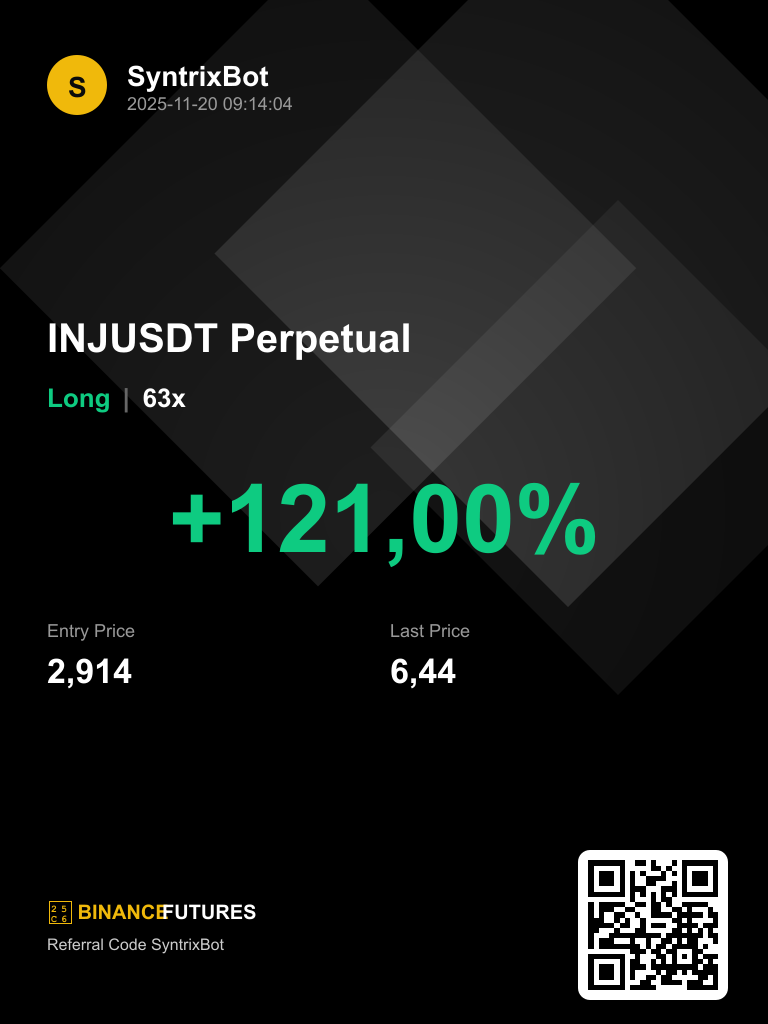
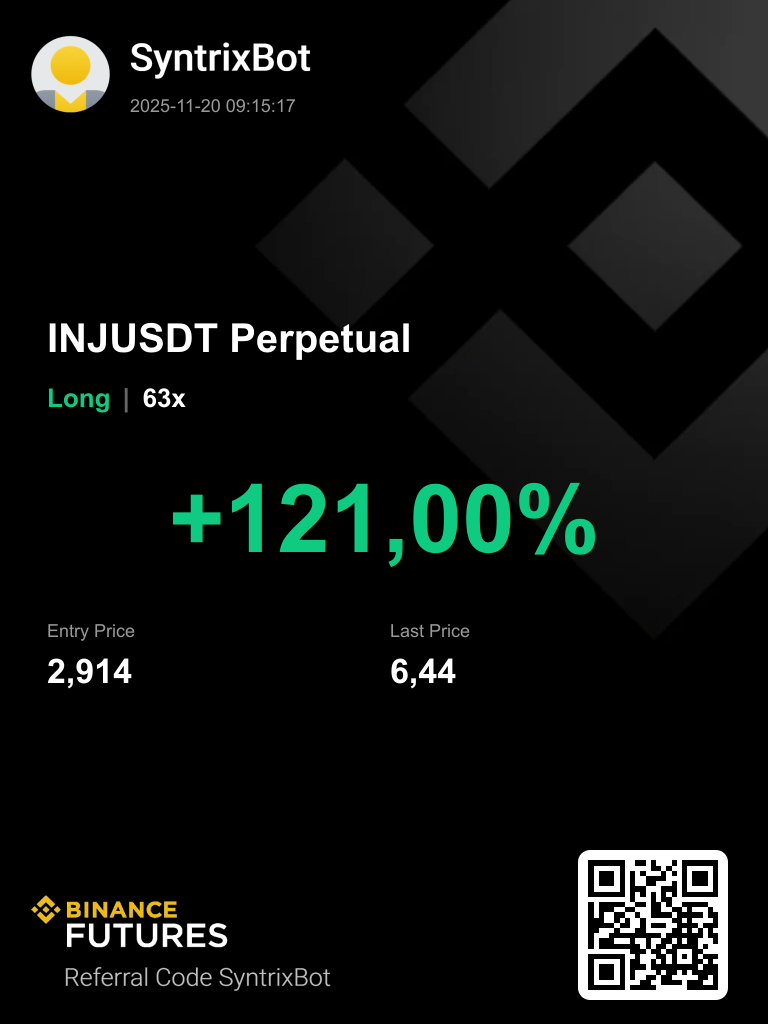
Revert to original card_logo3.png background, draw only dynamic data

diff --git a/telegram-bot/src/cardGenerator.ts b/telegram-bot/src/cardGenerator.ts
@@ -145,8 +145,8 @@ async function getNextOrderNumber(): Promise<number> {
  */
 async function drawBackground(ctx: CanvasRenderingContext2D, width: number, height: number) {
   try {
-    // Load the clean background image without any text
-    const backgroundPath = path.join(__dirname, '..', 'assets', 'card-background.png')
+    // Load the original background image
+    const backgroundPath = path.join(__dirname, '..', 'card_logo3.png')
     const background = await canvasLoadImage(backgroundPath)
     ctx.drawImage(background, 0, 0, width, height)
   } catch (error) {
@@ -177,36 +177,14 @@ async function drawBackground(ctx: CanvasRenderingContext2D, width: number, heig
  * Draw header with avatar and bot info
  */
 function drawHeader(ctx: CanvasRenderingContext2D, data: TradingCardData, layout: any) {
-  const avatarX = 47
-  const avatarY = 55
-  const avatarSize = 60
-  const avatarRadius = avatarSize / 2
-
-  // Draw circular avatar background
-  ctx.fillStyle = data.avatarBackground || '#F0B90B'
-  ctx.beginPath()
-  ctx.arc(avatarX + avatarRadius, avatarY + avatarRadius, avatarRadius, 0, Math.PI * 2)
-  ctx.fill()
-
-  // Draw avatar initial
-  ctx.fillStyle = data.avatarTextColor || '#0B0B0B'
-  ctx.font = 'bold 28px Arial'
-  ctx.textAlign = 'center'
-  ctx.textBaseline = 'middle'
-  ctx.fillText(data.botInitial, avatarX + avatarRadius, avatarY + avatarRadius + 2)
-
-  // Draw bot name
-  ctx.fillStyle = '#ffffff'
-  ctx.font = 'bold 28px Arial'
-  ctx.textAlign = 'left'
-  ctx.textBaseline = 'top'
-  ctx.fillText('SyntrixBot', avatarX + avatarSize + 20, avatarY + 5)
-
-  // Draw timestamp
+  // Avatar and bot name are on the background image
+  // Only draw timestamp
   ctx.fillStyle = '#999999'
   ctx.font = '18px Arial'
+  ctx.textAlign = 'left'
+  ctx.textBaseline = 'top'
   const timestamp = data.timestamp.toISOString().replace('T', ' ').substring(0, 19)
-  ctx.fillText(timestamp, avatarX + avatarSize + 20, avatarY + 38)
+  ctx.fillText(timestamp, 130, 95)
 }
 
 /**
@@ -309,22 +287,9 @@ async function drawFooter(
   const footerY = layout.footerY
   const leftMargin = layout.marginLeft
 
-  // Draw Binance Futures logo text
-  ctx.fillStyle = '#F0B90B'
-  ctx.font = 'bold 20px Arial'
-  ctx.textAlign = 'left'
-  ctx.textBaseline = 'top'
-  ctx.fillText('◆ BINANCE', leftMargin, footerY)
+  // Binance logo and referral code are on the background image
+  // Only draw QR code
   
-  ctx.fillStyle = '#ffffff'
-  ctx.font = 'bold 20px Arial'
-  ctx.fillText('FUTURES', leftMargin + 115, footerY)
-
-  // Draw referral code
-  ctx.fillStyle = '#cccccc'
-  ctx.font = '16px Arial'
-  ctx.fillText(`Referral Code ${referralCode}`, leftMargin, footerY + 35)
-
   // Draw QR code (raised higher with rounded corners)
   const qrSize = 130
   const qrX = width - qrSize - 50
